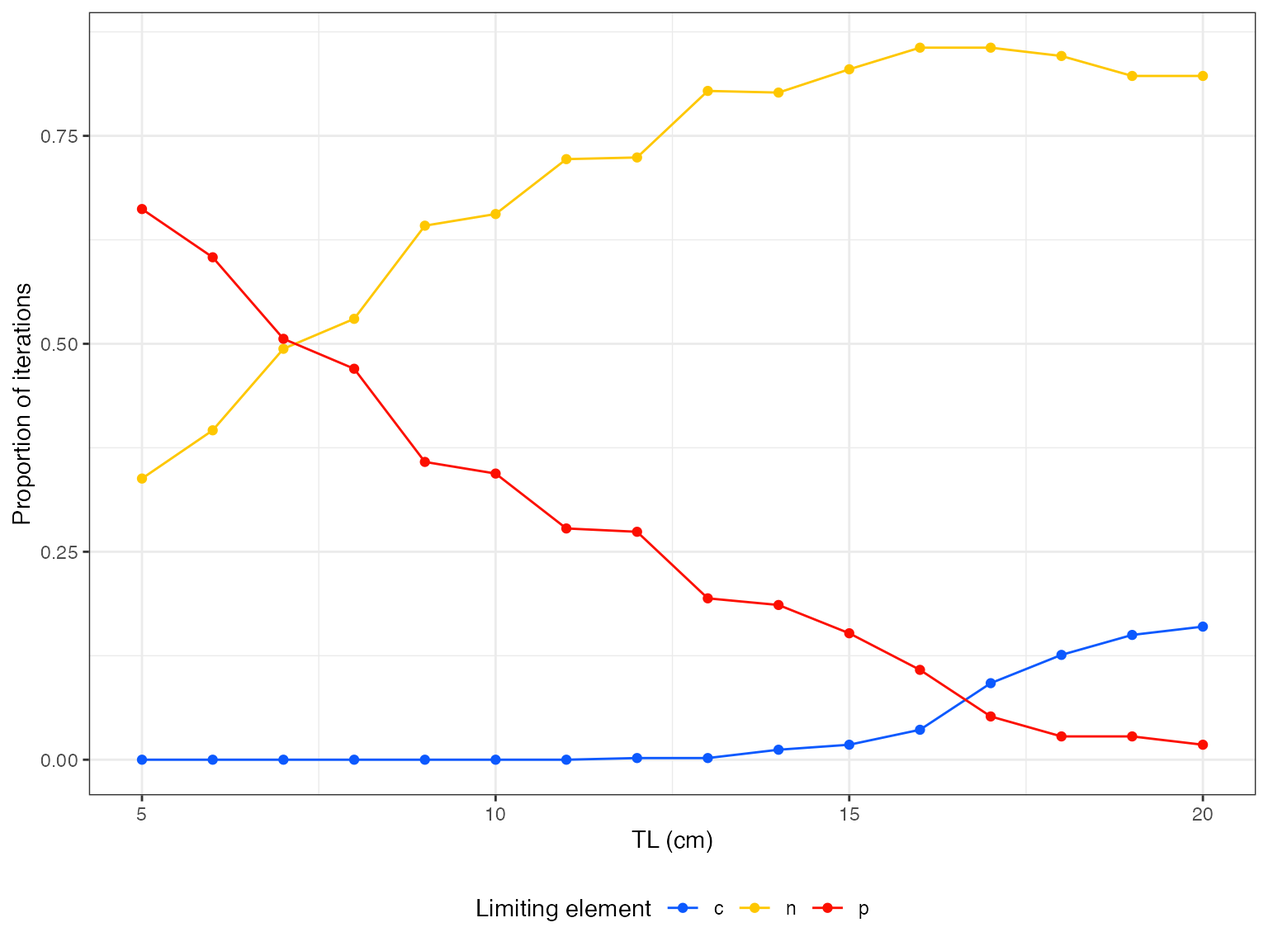
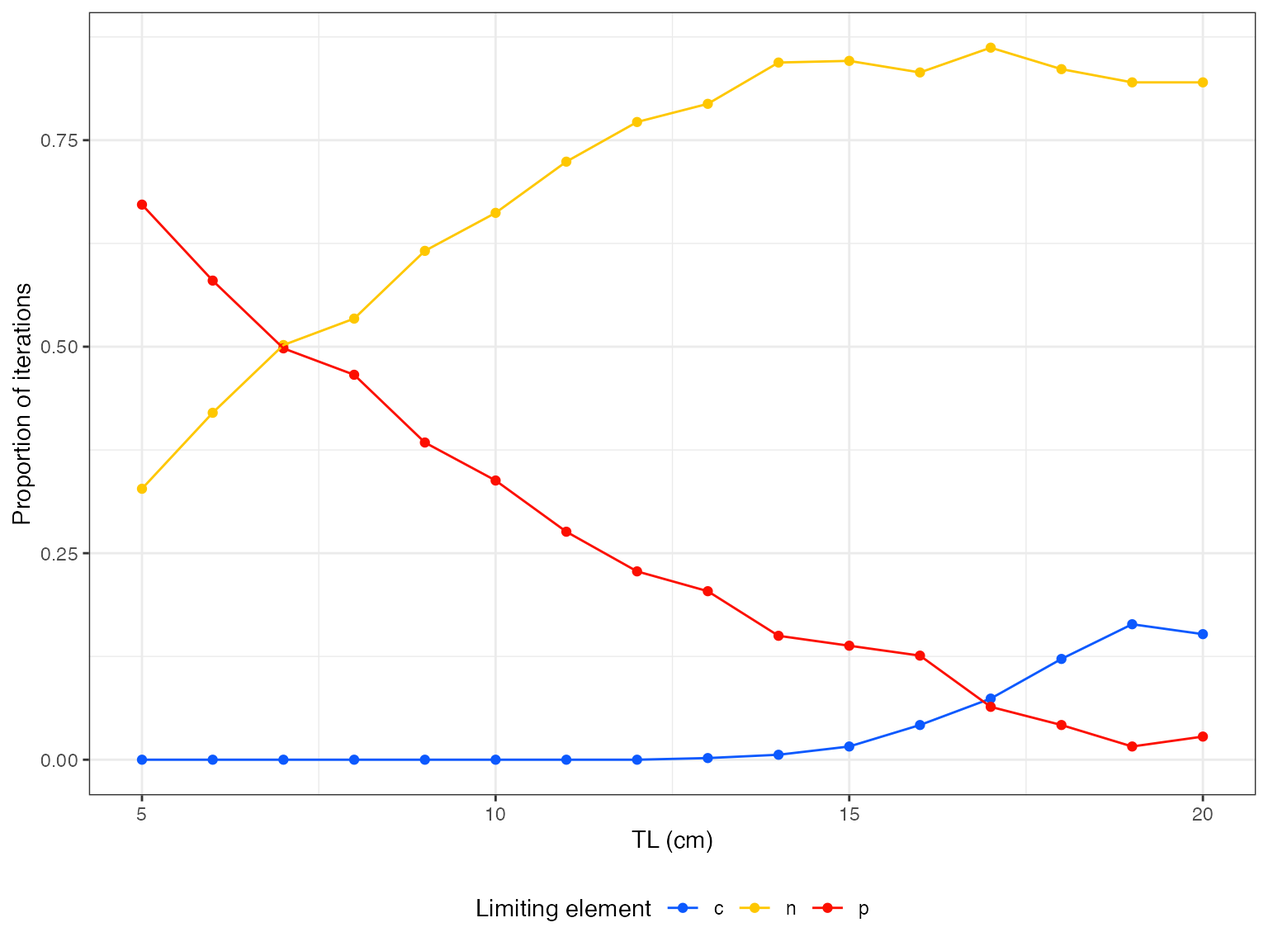
Built site for fishflux: 0.0.1.2@9f1a2a1

diff --git a/articles/intro_to_fishflux.html b/articles/intro_to_fishflux.html
@@ -79,7 +79,7 @@
       <h1 data-toc-skip>Intro to fishflux</h1>
                         <h4 class="author">Nina M. D. Schiettekatte</h4>
             
-            <h4 class="date">2020-10-12</h4>
+            <h4 class="date">2020-10-13</h4>
       
       <small class="dont-index">Source: <a href="https://github.com/nschiett/fishflux/blob/master/vignettes/intro_to_fishflux.Rmd"><code>vignettes/intro_to_fishflux.Rmd</code></a></small>
       <div class="hidden name"><code>intro_to_fishflux.Rmd</code></div>
@@ -110,7 +110,7 @@
 <p>The best way to install the latest development version of <code>fishflux</code> is to install it from GitHub.</p>
 <div class="sourceCode" id="cb1"><pre class="downlit">
 <span class="fu"><a href="https://rdrr.io/r/utils/install.packages.html">install.packages</a></span><span class="op">(</span><span class="st">"devtools"</span><span class="op">)</span>
-<span class="fu">devtools</span><span class="fu">::</span><span class="fu">install_github</span><span class="op">(</span><span class="st">"nschiett/fishflux"</span>, dependencies <span class="op">=</span> <span class="cn">TRUE</span><span class="op">)</span> <span class="co"># if errors are returned, try adding `args = "--preclean"` to `install_github`</span>
+<span class="fu">devtools</span><span class="fu">::</span><span class="fu"><a href="https://devtools.r-lib.org//reference/remote-reexports.html">install_github</a></span><span class="op">(</span><span class="st">"nschiett/fishflux"</span>, dependencies <span class="op">=</span> <span class="cn">TRUE</span><span class="op">)</span> <span class="co"># if errors are returned, try adding `args = "--preclean"` to `install_github`</span>
 <span class="kw"><a href="https://rdrr.io/r/base/library.html">library</a></span><span class="op">(</span><span class="va"><a href="https://nschiett.github.io/fishflux/">fishflux</a></span><span class="op">)</span></pre></div>
 </div>
 <div id="cran" class="section level3">
@@ -401,7 +401,7 @@ Elemental stoichiometry of diet
 <span class="co">#&gt;            species    t0 Linf     k     asp troph   lwa_m      lwa_sd lwb_m</span>
 <span class="co">#&gt; 1 Zebrasoma scopas -0.49 13.3 0.425 2.02091     2 0.02455 0.002627551  2.98</span>
 <span class="co">#&gt;      lwb_sd     mdw_m        f0_m        f0_sd alpha_m   alpha_sd</span>
-<span class="co">#&gt; 1 0.0255102 0.2504833 0.001517989 3.144375e-10    0.77 0.05286288</span></pre></div>
+<span class="co">#&gt; 1 0.0255102 0.2504833 0.001517989 3.083058e-10    0.77 0.05286288</span></pre></div>
 
 <p>All other parameters have to be provided by the user. For more information on how to acquire these parameters, take a look at (“this paper” add reference to methods paper).</p>
 </div>
@@ -420,56 +420,56 @@ Elemental stoichiometry of diet
 <div class="sourceCode" id="cb10"><pre class="downlit">
 <span class="fu">fishflux</span><span class="fu">::</span><span class="fu"><a href="../reference/extract.html">extract</a></span><span class="op">(</span><span class="va">model</span>, <span class="fu"><a href="https://rdrr.io/r/base/c.html">c</a></span><span class="op">(</span><span class="st">"Fn"</span>,<span class="st">"Fp"</span><span class="op">)</span><span class="op">)</span>
 <span class="co">#&gt;    TL      Fn_mean    Fn_median        Fn_sd      Fn_2.5%    Fn_97.5%</span>
-<span class="co">#&gt; 1   5 0.0008839412 0.0008243409 0.0004404216 0.0001953834 0.001928090</span>
-<span class="co">#&gt; 2   6 0.0013382260 0.0012383171 0.0006569160 0.0002943529 0.002898107</span>
-<span class="co">#&gt; 3   7 0.0018264333 0.0017345861 0.0008461676 0.0005097505 0.003810969</span>
-<span class="co">#&gt; 4   8 0.0025600272 0.0023606281 0.0012264121 0.0006886276 0.005404594</span>
-<span class="co">#&gt; 5   9 0.0035069660 0.0031793173 0.0017050304 0.0010856259 0.007671034</span>
-<span class="co">#&gt; 6  10 0.0043960062 0.0040128538 0.0022792375 0.0011585008 0.009353545</span>
-<span class="co">#&gt; 7  11 0.0057066555 0.0050115584 0.0031862186 0.0013790973 0.012508499</span>
-<span class="co">#&gt; 8  12 0.0070588626 0.0059482092 0.0040827421 0.0017768645 0.017168343</span>
-<span class="co">#&gt; 9  13 0.0086066323 0.0075756592 0.0052810735 0.0018382580 0.019399609</span>
-<span class="co">#&gt; 10 14 0.0113979265 0.0099571919 0.0072999063 0.0022519552 0.031062896</span>
-<span class="co">#&gt; 11 15 0.0125583519 0.0106561786 0.0083335266 0.0026053356 0.031765799</span>
-<span class="co">#&gt; 12 16 0.0169825039 0.0146058264 0.0111670750 0.0033344470 0.046223015</span>
-<span class="co">#&gt; 13 17 0.0185796627 0.0165817885 0.0114275676 0.0038572289 0.043679147</span>
-<span class="co">#&gt; 14 18 0.0235993216 0.0207347535 0.0148382247 0.0049871782 0.059729970</span>
-<span class="co">#&gt; 15 19 0.0290489404 0.0245583654 0.0192052119 0.0069144129 0.077440451</span>
-<span class="co">#&gt; 16 20 0.0319417159 0.0276730384 0.0202313209 0.0071963404 0.079227548</span>
+<span class="co">#&gt; 1   5 0.0008995975 0.0008356675 0.0004501718 0.0001991565 0.001935200</span>
+<span class="co">#&gt; 2   6 0.0012574779 0.0011826660 0.0005949077 0.0003245522 0.002594938</span>
+<span class="co">#&gt; 3   7 0.0017815642 0.0016583034 0.0008157206 0.0004321666 0.003619874</span>
+<span class="co">#&gt; 4   8 0.0025263354 0.0022954031 0.0011620143 0.0009371622 0.005506227</span>
+<span class="co">#&gt; 5   9 0.0033740745 0.0030432790 0.0017929685 0.0009063995 0.007960575</span>
+<span class="co">#&gt; 6  10 0.0044382625 0.0039223763 0.0023925573 0.0010928039 0.010100547</span>
+<span class="co">#&gt; 7  11 0.0059045515 0.0052484756 0.0034308648 0.0015062425 0.014294394</span>
+<span class="co">#&gt; 8  12 0.0074837757 0.0067492180 0.0044436802 0.0017084654 0.018495047</span>
+<span class="co">#&gt; 9  13 0.0088363746 0.0075083549 0.0054132222 0.0020402028 0.022249079</span>
+<span class="co">#&gt; 10 14 0.0115747120 0.0100693129 0.0072403744 0.0023854176 0.030304176</span>
+<span class="co">#&gt; 11 15 0.0138855402 0.0120953828 0.0092695674 0.0022621354 0.035923966</span>
+<span class="co">#&gt; 12 16 0.0157942461 0.0135706280 0.0102850666 0.0026664477 0.040423566</span>
+<span class="co">#&gt; 13 17 0.0186892061 0.0156907376 0.0125628878 0.0034492445 0.049714349</span>
+<span class="co">#&gt; 14 18 0.0234129366 0.0205061648 0.0152512045 0.0046668058 0.059482754</span>
+<span class="co">#&gt; 15 19 0.0261829676 0.0217263908 0.0173094038 0.0068285939 0.067347257</span>
+<span class="co">#&gt; 16 20 0.0327418554 0.0282508801 0.0219838847 0.0070695325 0.085882215</span>
 <span class="co">#&gt;          Fn_25%      Fn_75%      Fp_mean    Fp_median        Fp_sd      Fp_2.5%</span>
-<span class="co">#&gt; 1  0.0005623519 0.001148425 8.684075e-05 4.094570e-05 0.0001099571 1.291126e-06</span>
-<span class="co">#&gt; 2  0.0008859082 0.001683598 1.654127e-04 8.889909e-05 0.0001983011 5.791852e-06</span>
-<span class="co">#&gt; 3  0.0012182601 0.002332004 2.616520e-04 1.548684e-04 0.0003047165 1.213128e-05</span>
-<span class="co">#&gt; 4  0.0016465534 0.003311831 4.739493e-04 2.729900e-04 0.0004724972 1.316918e-05</span>
-<span class="co">#&gt; 5  0.0022210533 0.004512569 7.626694e-04 5.376809e-04 0.0007084404 4.012535e-05</span>
-<span class="co">#&gt; 6  0.0027475844 0.005718285 1.042013e-03 7.759779e-04 0.0009143972 4.668456e-05</span>
-<span class="co">#&gt; 7  0.0033380655 0.007823861 1.536259e-03 1.128391e-03 0.0013282322 9.128551e-05</span>
-<span class="co">#&gt; 8  0.0039688034 0.009171461 2.027000e-03 1.498864e-03 0.0017033325 1.085664e-04</span>
-<span class="co">#&gt; 9  0.0044667723 0.011783342 2.637328e-03 2.064432e-03 0.0021086321 1.795803e-04</span>
-<span class="co">#&gt; 10 0.0059758811 0.015262877 3.728362e-03 3.073306e-03 0.0029548037 2.654197e-04</span>
-<span class="co">#&gt; 11 0.0059185216 0.017235569 4.311889e-03 3.556830e-03 0.0033204832 3.464090e-04</span>
-<span class="co">#&gt; 12 0.0077777690 0.023279286 6.173972e-03 5.288957e-03 0.0044973756 6.654750e-04</span>
-<span class="co">#&gt; 13 0.0090641561 0.026391908 6.945099e-03 6.122603e-03 0.0045262966 1.111660e-03</span>
-<span class="co">#&gt; 14 0.0115730359 0.031506165 9.127014e-03 7.969629e-03 0.0058889020 1.773479e-03</span>
-<span class="co">#&gt; 15 0.0134219139 0.039511386 1.152131e-02 9.623056e-03 0.0075892701 2.763651e-03</span>
-<span class="co">#&gt; 16 0.0160915701 0.043899686 1.271657e-02 1.100725e-02 0.0080618471 2.943020e-03</span>
+<span class="co">#&gt; 1  0.0005848646 0.001128908 8.113832e-05 4.097058e-05 0.0001038282 2.240077e-06</span>
+<span class="co">#&gt; 2  0.0008240332 0.001566237 1.663734e-04 8.302147e-05 0.0001941108 5.512705e-06</span>
+<span class="co">#&gt; 3  0.0012340021 0.002253510 2.826207e-04 1.612433e-04 0.0002914860 1.760030e-05</span>
+<span class="co">#&gt; 4  0.0016650374 0.003137568 4.657455e-04 2.801049e-04 0.0004627298 1.207938e-05</span>
+<span class="co">#&gt; 5  0.0021317130 0.004191334 7.354955e-04 4.462109e-04 0.0007212825 2.804260e-05</span>
+<span class="co">#&gt; 6  0.0026412060 0.005768890 1.079207e-03 7.342769e-04 0.0009661083 4.141256e-05</span>
+<span class="co">#&gt; 7  0.0035348007 0.007761986 1.637747e-03 1.178602e-03 0.0014613800 6.704690e-05</span>
+<span class="co">#&gt; 8  0.0039769469 0.009896079 2.266193e-03 1.875467e-03 0.0018009384 1.814145e-04</span>
+<span class="co">#&gt; 9  0.0047182181 0.012024400 2.750213e-03 2.108595e-03 0.0021745374 2.770463e-04</span>
+<span class="co">#&gt; 10 0.0060269288 0.015893853 3.838307e-03 3.003600e-03 0.0029507092 3.540970e-04</span>
+<span class="co">#&gt; 11 0.0066433429 0.018816430 4.836250e-03 3.961685e-03 0.0037486645 4.676923e-04</span>
+<span class="co">#&gt; 12 0.0078576284 0.020705451 5.722642e-03 4.861289e-03 0.0041060613 5.984771e-04</span>
+<span class="co">#&gt; 13 0.0088930346 0.024464854 6.991514e-03 5.789069e-03 0.0050336318 9.330765e-04</span>
+<span class="co">#&gt; 14 0.0111399579 0.032779664 9.095700e-03 7.887998e-03 0.0061419999 1.560891e-03</span>
+<span class="co">#&gt; 15 0.0126971018 0.035650673 1.040710e-02 8.559846e-03 0.0068711449 2.801891e-03</span>
+<span class="co">#&gt; 16 0.0161900435 0.044132139 1.300292e-02 1.130759e-02 0.0086456139 2.846253e-03</span>
 <span class="co">#&gt;        Fp_97.5%       Fp_25%       Fp_75%</span>
-<span class="co">#&gt; 1  0.0004008963 1.909911e-05 0.0001024123</span>
-<span class="co">#&gt; 2  0.0007751376 4.218090e-05 0.0002032457</span>
-<span class="co">#&gt; 3  0.0010273002 7.085990e-05 0.0003320468</span>
-<span class="co">#&gt; 4  0.0016670513 1.299436e-04 0.0007213271</span>
-<span class="co">#&gt; 5  0.0025841013 2.281220e-04 0.0011309144</span>
-<span class="co">#&gt; 6  0.0031390229 3.261955e-04 0.0015429593</span>
-<span class="co">#&gt; 7  0.0047275989 4.470152e-04 0.0024073639</span>
-<span class="co">#&gt; 8  0.0060538738 6.579444e-04 0.0029942587</span>
-<span class="co">#&gt; 9  0.0070176946 9.210000e-04 0.0039176739</span>
-<span class="co">#&gt; 10 0.0109745684 1.460884e-03 0.0053470741</span>
-<span class="co">#&gt; 11 0.0122547864 1.725924e-03 0.0062112347</span>
-<span class="co">#&gt; 12 0.0180862417 2.479384e-03 0.0086922786</span>
-<span class="co">#&gt; 13 0.0166582241 3.221189e-03 0.0099039941</span>
-<span class="co">#&gt; 14 0.0230663279 4.455281e-03 0.0121342702</span>
-<span class="co">#&gt; 15 0.0307171311 5.364013e-03 0.0155079867</span>
-<span class="co">#&gt; 16 0.0318030927 6.322520e-03 0.0173467772</span></pre></div>
+<span class="co">#&gt; 1  0.0003844986 2.031821e-05 8.836758e-05</span>
+<span class="co">#&gt; 2  0.0007130689 4.220267e-05 2.123593e-04</span>
+<span class="co">#&gt; 3  0.0010538036 7.959827e-05 3.752558e-04</span>
+<span class="co">#&gt; 4  0.0016874451 1.308397e-04 6.916587e-04</span>
+<span class="co">#&gt; 5  0.0027256465 2.245282e-04 1.053150e-03</span>
+<span class="co">#&gt; 6  0.0036103336 3.230574e-04 1.623859e-03</span>
+<span class="co">#&gt; 7  0.0051018042 5.285212e-04 2.398718e-03</span>
+<span class="co">#&gt; 8  0.0066188297 7.289220e-04 3.335430e-03</span>
+<span class="co">#&gt; 9  0.0081327495 1.041416e-03 4.029931e-03</span>
+<span class="co">#&gt; 10 0.0115463374 1.489892e-03 5.467561e-03</span>
+<span class="co">#&gt; 11 0.0139018424 1.880325e-03 6.856950e-03</span>
+<span class="co">#&gt; 12 0.0156937442 2.275339e-03 7.922698e-03</span>
+<span class="co">#&gt; 13 0.0194944505 3.068349e-03 9.321498e-03</span>
+<span class="co">#&gt; 14 0.0231232738 4.132501e-03 1.294133e-02</span>
+<span class="co">#&gt; 15 0.0272645295 5.099123e-03 1.411327e-02</span>
+<span class="co">#&gt; 16 0.0338970630 6.403016e-03 1.730218e-02</span></pre></div>
 
 </div>
 <div id="plot-results" class="section level3">
@@ -488,47 +488,47 @@ Elemental stoichiometry of diet
 #&gt; 5   9        c    0.000
 #&gt; 6  10        c    0.000
 #&gt; 7  11        c    0.000
-#&gt; 8  12        c    0.002
+#&gt; 8  12        c    0.000
 #&gt; 9  13        c    0.002
-#&gt; 10 14        c    0.012
-#&gt; 11 15        c    0.018
-#&gt; 12 16        c    0.036
-#&gt; 13 17        c    0.092
-#&gt; 14 18        c    0.126
-#&gt; 15 19        c    0.150
-#&gt; 16 20        c    0.160
-#&gt; 17  5        n    0.338
-#&gt; 18  6        n    0.396
-#&gt; 19  7        n    0.494
-#&gt; 20  8        n    0.530
-#&gt; 21  9        n    0.642
-#&gt; 22 10        n    0.656
-#&gt; 23 11        n    0.722
-#&gt; 24 12        n    0.724
-#&gt; 25 13        n    0.804
-#&gt; 26 14        n    0.802
-#&gt; 27 15        n    0.830
-#&gt; 28 16        n    0.856
-#&gt; 29 17        n    0.856
-#&gt; 30 18        n    0.846
-#&gt; 31 19        n    0.822
-#&gt; 32 20        n    0.822
-#&gt; 33  5        p    0.662
-#&gt; 34  6        p    0.604
-#&gt; 35  7        p    0.506
-#&gt; 36  8        p    0.470
-#&gt; 37  9        p    0.358
-#&gt; 38 10        p    0.344
-#&gt; 39 11        p    0.278
-#&gt; 40 12        p    0.274
-#&gt; 41 13        p    0.194
-#&gt; 42 14        p    0.186
-#&gt; 43 15        p    0.152
-#&gt; 44 16        p    0.108
-#&gt; 45 17        p    0.052
-#&gt; 46 18        p    0.028
-#&gt; 47 19        p    0.028
-#&gt; 48 20        p    0.018
+#&gt; 10 14        c    0.006
+#&gt; 11 15        c    0.016
+#&gt; 12 16        c    0.042
+#&gt; 13 17        c    0.074
+#&gt; 14 18        c    0.122
+#&gt; 15 19        c    0.164
+#&gt; 16 20        c    0.152
+#&gt; 17  5        n    0.328
+#&gt; 18  6        n    0.420
+#&gt; 19  7        n    0.502
+#&gt; 20  8        n    0.534
+#&gt; 21  9        n    0.616
+#&gt; 22 10        n    0.662
+#&gt; 23 11        n    0.724
+#&gt; 24 12        n    0.772
+#&gt; 25 13        n    0.794
+#&gt; 26 14        n    0.844
+#&gt; 27 15        n    0.846
+#&gt; 28 16        n    0.832
+#&gt; 29 17        n    0.862
+#&gt; 30 18        n    0.836
+#&gt; 31 19        n    0.820
+#&gt; 32 20        n    0.820
+#&gt; 33  5        p    0.672
+#&gt; 34  6        p    0.580
+#&gt; 35  7        p    0.498
+#&gt; 36  8        p    0.466
+#&gt; 37  9        p    0.384
+#&gt; 38 10        p    0.338
+#&gt; 39 11        p    0.276
+#&gt; 40 12        p    0.228
+#&gt; 41 13        p    0.204
+#&gt; 42 14        p    0.150
+#&gt; 43 15        p    0.138
+#&gt; 44 16        p    0.126
+#&gt; 45 17        p    0.064
+#&gt; 46 18        p    0.042
+#&gt; 47 19        p    0.016
+#&gt; 48 20        p    0.028
 ## Plot one variable:
 fishflux::plot_cnp(model,  y = "Fp", x = "tl", probs = c(0.5, 0.8, 0.95))</a></code></pre>
 <p><img src="intro_to_fishflux_files/figure-html/unnamed-chunk-9-2.png" width="768"></p>
@@ -546,11 +546,11 @@ fishflux::plot_cnp(model,  y = "Fp", x = "tl", probs = c(0.5, 0.8, 0.95))</a></c
 <span class="fu">fishflux</span><span class="fu">::</span><span class="fu"><a href="../reference/sensitivity.html">sensitivity</a></span><span class="op">(</span>TL <span class="op">=</span> <span class="fl">10</span>, param <span class="op">=</span> <span class="va">param_zebsco</span>, par <span class="op">=</span> <span class="fu"><a href="https://rdrr.io/r/base/c.html">c</a></span><span class="op">(</span><span class="st">"Dn_sd"</span>, <span class="st">"Dp_sd"</span>, <span class="st">"Qn_sd"</span>, <span class="st">"Qp_sd"</span>, <span class="st">"k_sd"</span><span class="op">)</span>, out <span class="op">=</span> <span class="fu"><a href="https://rdrr.io/r/base/c.html">c</a></span><span class="op">(</span><span class="st">"Fn"</span>, <span class="st">"Fp"</span>, <span class="st">"Ic"</span><span class="op">)</span><span class="op">)</span></pre></div>
 <p><img src="intro_to_fishflux_files/figure-html/unnamed-chunk-10-1.png" width="768"></p>
 <pre><code>#&gt;              Fn_CI        Fp_CI        Ic_CI
-#&gt; Dn_sd 1.840421e-10 0.0002639560 9.427000e-03
-#&gt; Dp_sd 2.119908e-10 0.0008016495 2.161961e-09
-#&gt; Qn_sd 2.044140e-03 0.0007977632 2.849154e-02
-#&gt; Qp_sd 1.844385e-10 0.0007319374 1.941963e-09
-#&gt; k_sd  1.878058e-10 0.0001149229 1.105028e-02</code></pre>
+#&gt; Dn_sd 2.078582e-10 0.0002668196 9.529272e-03
+#&gt; Dp_sd 1.917325e-10 0.0008267637 1.997586e-09
+#&gt; Qn_sd 1.984451e-03 0.0007744688 2.765960e-02
+#&gt; Qp_sd 1.934787e-10 0.0006974468 2.031448e-09
+#&gt; k_sd  2.046995e-10 0.0001122325 1.079159e-02</code></pre>
 
 </div>
 </div>

diff --git a/reference/extract.html b/reference/extract.html
@@ -172,19 +172,19 @@
     <pre class="examples"><div class='input'><span class='va'>model</span> <span class='op'>&lt;-</span> <span class='fu'><a href='cnp_model_mcmc.html'>cnp_model_mcmc</a></span><span class='op'>(</span>TL <span class='op'>=</span> <span class='fl'>5</span><span class='op'>:</span><span class='fl'>10</span>, param <span class='op'>=</span> <span class='fu'><a href='https://rdrr.io/r/base/list.html'>list</a></span><span class='op'>(</span>Qc_m <span class='op'>=</span> <span class='fl'>40</span>, Qn_m <span class='op'>=</span> <span class='fl'>10</span>, Qp_m <span class='op'>=</span> <span class='fl'>4</span><span class='op'>)</span><span class='op'>)</span>
 <span class='fu'>extract</span><span class='op'>(</span><span class='va'>model</span>, <span class='fu'><a href='https://rdrr.io/r/base/c.html'>c</a></span><span class='op'>(</span><span class='st'>"Fn"</span>,<span class='st'>"Fp"</span><span class='op'>)</span><span class='op'>)</span>
 </div><div class='output co'>#&gt;   TL      Fn_mean    Fn_median        Fn_sd      Fn_2.5%     Fn_97.5%
-#&gt; 1  5 0.0006047886 0.0006047886 6.216169e-12 0.0006047886 0.0006047886
-#&gt; 2  6 0.0010610097 0.0010610097 1.022783e-11 0.0010610097 0.0010610097
-#&gt; 3  7 0.0017065393 0.0017065393 1.689223e-11 0.0017065393 0.0017065394
-#&gt; 4  8 0.0025757605 0.0025757605 2.516199e-11 0.0025757604 0.0025757605
-#&gt; 5  9 0.0037034689 0.0037034689 3.799782e-11 0.0037034688 0.0037034690
-#&gt; 6 10 0.0051248251 0.0051248251 5.325823e-11 0.0051248250 0.0051248252
+#&gt; 1  5 0.0006047886 0.0006047886 6.311954e-12 0.0006047886 0.0006047886
+#&gt; 2  6 0.0010610097 0.0010610097 1.057627e-11 0.0010610097 0.0010610097
+#&gt; 3  7 0.0017065393 0.0017065393 1.740062e-11 0.0017065393 0.0017065394
+#&gt; 4  8 0.0025757605 0.0025757605 2.643892e-11 0.0025757604 0.0025757605
+#&gt; 5  9 0.0037034689 0.0037034689 3.749319e-11 0.0037034688 0.0037034690
+#&gt; 6 10 0.0051248251 0.0051248251 5.260018e-11 0.0051248250 0.0051248252
 #&gt;         Fn_25%       Fn_75%      Fp_mean    Fp_median        Fp_sd      Fp_2.5%
-#&gt; 1 0.0006047886 0.0006047886 0.0001097965 0.0001097965 1.817826e-12 0.0001097965
-#&gt; 2 0.0010610097 0.0010610097 0.0002186548 0.0002186548 2.980249e-12 0.0002186548
-#&gt; 3 0.0017065393 0.0017065393 0.0003815567 0.0003815567 4.921940e-12 0.0003815567
-#&gt; 4 0.0025757605 0.0025757605 0.0006096826 0.0006096826 7.310672e-12 0.0006096826
-#&gt; 5 0.0037034689 0.0037034689 0.0009143614 0.0009143614 1.109991e-11 0.0009143614
-#&gt; 6 0.0051248250 0.0051248251 0.0013070515 0.0013070515 1.557869e-11 0.0013070515
+#&gt; 1 0.0006047886 0.0006047886 0.0001097965 0.0001097965 1.843743e-12 0.0001097965
+#&gt; 2 0.0010610097 0.0010610097 0.0002186548 0.0002186548 3.082655e-12 0.0002186548
+#&gt; 3 0.0017065393 0.0017065393 0.0003815567 0.0003815567 5.077088e-12 0.0003815567
+#&gt; 4 0.0025757605 0.0025757605 0.0006096826 0.0006096826 7.714360e-12 0.0006096826
+#&gt; 5 0.0037034689 0.0037034689 0.0009143614 0.0009143614 1.096932e-11 0.0009143614
+#&gt; 6 0.0051248250 0.0051248251 0.0013070515 0.0013070515 1.531111e-11 0.0013070515
 #&gt;       Fp_97.5%       Fp_25%       Fp_75%
 #&gt; 1 0.0001097965 0.0001097965 0.0001097965
 #&gt; 2 0.0002186548 0.0002186548 0.0002186548

diff --git a/reference/model_parameters.html b/reference/model_parameters.html
@@ -161,7 +161,27 @@
     <pre class="examples"><div class='input'><span class='co'># \donttest{</span>
 <span class='kw'><a href='https://rdrr.io/r/base/library.html'>library</a></span><span class='op'>(</span><span class='va'><a href='https://nschiett.github.io/fishflux/'>fishflux</a></span><span class='op'>)</span>
 <span class='fu'>model_parameters</span><span class='op'>(</span>sp <span class='op'>=</span> <span class='st'>"Scarus psittacus"</span>, family <span class='op'>=</span> <span class='st'>"Scaridae"</span>, temp <span class='op'>=</span> <span class='fl'>27</span><span class='op'>)</span><span class='co'># }</span>
-</div><div class='output co'>#&gt; <span class='warning'>Warning: cannot open URL 'https://www.fishbase.us/summary/Scarus-psittacus.html': HTTP status was '520 Unknown Error'</span></div><div class='output co'>#&gt; <span class='error'>Error in file(con, "r"): cannot open the connection to 'https://www.fishbase.us/summary/Scarus-psittacus.html'</span></div><div class='input'>
+</div><div class='output co'>#&gt; <span class='message'>average values for b0 and alpha used</span></div><div class='output co'>#&gt; 
+#&gt; SAMPLING FOR MODEL 'getB0' NOW (CHAIN 1).
+#&gt; Chain 1: Iteration:   1 / 1000 [  0%]  (Sampling)
+#&gt; Chain 1: Iteration: 100 / 1000 [ 10%]  (Sampling)
+#&gt; Chain 1: Iteration: 200 / 1000 [ 20%]  (Sampling)
+#&gt; Chain 1: Iteration: 300 / 1000 [ 30%]  (Sampling)
+#&gt; Chain 1: Iteration: 400 / 1000 [ 40%]  (Sampling)
+#&gt; Chain 1: Iteration: 500 / 1000 [ 50%]  (Sampling)
+#&gt; Chain 1: Iteration: 600 / 1000 [ 60%]  (Sampling)
+#&gt; Chain 1: Iteration: 700 / 1000 [ 70%]  (Sampling)
+#&gt; Chain 1: Iteration: 800 / 1000 [ 80%]  (Sampling)
+#&gt; Chain 1: Iteration: 900 / 1000 [ 90%]  (Sampling)
+#&gt; Chain 1: Iteration: 1000 / 1000 [100%]  (Sampling)
+#&gt; Chain 1: 
+#&gt; Chain 1:  Elapsed Time: 0 seconds (Warm-up)
+#&gt; Chain 1:                0.001017 seconds (Sampling)
+#&gt; Chain 1:                0.001017 seconds (Total)
+#&gt; Chain 1: </div><div class='output co'>#&gt;            species      t0  Linf     k     asp troph   lwa_m      lwa_sd lwb_m
+#&gt; 1 Scarus psittacus -0.6025 23.05 0.814 1.80877     2 0.01585 0.001760204  3.06
+#&gt;       lwb_sd     mdw_m        f0_m       f0_sd alpha_m   alpha_sd
+#&gt; 1 0.02040816 0.2372406 0.001517989 3.09977e-10    0.77 0.05286288</div><div class='input'>
 </div></pre>
   </div>
   <div class="col-md-3 hidden-xs hidden-sm" id="pkgdown-sidebar">

diff --git a/reference/find_lw.html b/reference/find_lw.html
@@ -153,10 +153,13 @@ The default mirror for fishbase is set to "de", please change this if needed for
 <span class='kw'><a href='https://rdrr.io/r/base/library.html'>library</a></span><span class='op'>(</span><span class='va'><a href='http://had.co.nz/plyr'>plyr</a></span><span class='op'>)</span>
 <span class='co'># find length-weight relationship parameters for one species</span>
 <span class='fu'>find_lw</span><span class='op'>(</span><span class='st'>"Lutjanus griseus"</span><span class='op'>)</span>
-</div><div class='output co'>#&gt; <span class='warning'>Warning: cannot open URL 'https://www.fishbase.us/summary/Lutjanus-griseus.html': HTTP status was '520 Unknown Error'</span></div><div class='output co'>#&gt; <span class='error'>Error in file(con, "r"): cannot open the connection to 'https://www.fishbase.us/summary/Lutjanus-griseus.html'</span></div><div class='input'>
+</div><div class='output co'>#&gt;            species   lwa_m      lwa_sd lwb_m     lwb_sd
+#&gt; 1 Lutjanus griseus 0.01514 0.001122449  2.97 0.01530612</div><div class='input'>
 <span class='co'># find length-weight relationship parameters for multiple species and return in dataframe</span>
 <span class='fu'><a href='https://rdrr.io/pkg/plyr/man/ldply.html'>ldply</a></span><span class='op'>(</span><span class='fu'><a href='https://rdrr.io/r/base/lapply.html'>lapply</a></span><span class='op'>(</span><span class='fu'><a href='https://rdrr.io/r/base/c.html'>c</a></span><span class='op'>(</span><span class='st'>"Chlorurus spilurus"</span>,<span class='st'>"Zebrasoma scopas"</span><span class='op'>)</span>, <span class='va'>find_lw</span><span class='op'>)</span><span class='op'>)</span>
-</div><div class='output co'>#&gt; <span class='warning'>Warning: cannot open URL 'https://www.fishbase.us/summary/Chlorurus-spilurus.html': HTTP status was '520 Unknown Error'</span></div><div class='output co'>#&gt; <span class='error'>Error in file(con, "r"): cannot open the connection to 'https://www.fishbase.us/summary/Chlorurus-spilurus.html'</span></div><div class='input'>
+</div><div class='output co'>#&gt;              species   lwa_m      lwa_sd lwb_m     lwb_sd
+#&gt; 1 Chlorurus spilurus 0.01413 0.008173469  3.04 0.08673469
+#&gt; 2   Zebrasoma scopas 0.02455 0.002627551  2.98 0.02551020</div><div class='input'>
 </div></pre>
   </div>
   <div class="col-md-3 hidden-xs hidden-sm" id="pkgdown-sidebar">

diff --git a/reference/sensitivity.html b/reference/sensitivity.html
@@ -174,9 +174,9 @@ Plots a heatplot with width of the 95<!-- %CI of output predictions. --></p>
 <span class='fu'>sensitivity</span><span class='op'>(</span>TL <span class='op'>=</span> <span class='fl'>10</span>, param <span class='op'>=</span> <span class='fu'><a href='https://rdrr.io/r/base/list.html'>list</a></span><span class='op'>(</span>k_sd <span class='op'>=</span> <span class='fl'>0.2</span>, Dn_sd <span class='op'>=</span> <span class='fl'>0.2</span>, Dc_sd <span class='op'>=</span> <span class='fl'>0.1</span><span class='op'>)</span>,
             par <span class='op'>=</span> <span class='fu'><a href='https://rdrr.io/r/base/c.html'>c</a></span><span class='op'>(</span><span class='st'>"k_sd"</span>,<span class='st'>"Dn_sd"</span>,<span class='st'>"Dc_sd"</span><span class='op'>)</span>, out <span class='op'>=</span> <span class='fu'><a href='https://rdrr.io/r/base/c.html'>c</a></span><span class='op'>(</span><span class='st'>"Ic"</span>, <span class='st'>"In"</span>, <span class='st'>"Ip"</span>, <span class='st'>"Gc"</span><span class='op'>)</span><span class='op'>)</span>
 </div><div class='output co'>#&gt; <span class='message'>Joining, by = "key"</span></div><div class='img'><img src='sensitivity-1.png' alt='' width='700' height='433' /></div><div class='output co'>#&gt;            Ic_CI        In_CI        Ip_CI        Gc_CI
-#&gt; k_sd  0.03466284 4.159540e-03 1.386513e-03 1.331053e-02
-#&gt; Dn_sd 0.19880071 6.270624e-03 7.952028e-03 7.335984e-11
-#&gt; Dc_sd 0.01102968 2.551815e-10 8.541392e-11 7.102021e-11</div><div class='input'>
+#&gt; k_sd  0.03101467 3.721761e-03 1.240587e-03 1.190963e-02
+#&gt; Dn_sd 0.25675483 6.725237e-03 1.027019e-02 7.108996e-11
+#&gt; Dc_sd 0.01179506 2.390145e-10 7.967897e-11 7.723893e-11</div><div class='input'>
 </div></pre>
   </div>
   <div class="col-md-3 hidden-xs hidden-sm" id="pkgdown-sidebar">

diff --git a/reference/limitation.html b/reference/limitation.html
@@ -170,8 +170,8 @@
 #&gt; Chain 1: Iteration: 1000 / 1000 [100%]  (Sampling)
 #&gt; Chain 1: 
 #&gt; Chain 1:  Elapsed Time: 0 seconds (Warm-up)
-#&gt; Chain 1:                0.011087 seconds (Sampling)
-#&gt; Chain 1:                0.011087 seconds (Total)
+#&gt; Chain 1:                0.01097 seconds (Sampling)
+#&gt; Chain 1:                0.01097 seconds (Total)
 #&gt; Chain 1: </div><div class='input'><span class='fu'>limitation</span><span class='op'>(</span><span class='va'>mod</span><span class='op'>)</span>
 </div><div class='output co'>#&gt; <span class='message'>geom_path: Each group consists of only one observation. Do you need to adjust</span>
 #&gt; <span class='message'>the group aesthetic?</span></div><div class='img'><img src='limitation-1.png' alt='' width='700' height='433' /></div><div class='output co'>#&gt;   tl nutrient prop_lim

diff --git a/reference/metabolism.html b/reference/metabolism.html
@@ -184,8 +184,8 @@ which also includes trophic level as a covariate.</p>
 #&gt; Chain 1: Iteration: 1000 / 1000 [100%]  (Sampling)
 #&gt; Chain 1: 
 #&gt; Chain 1:  Elapsed Time: 0 seconds (Warm-up)
-#&gt; Chain 1:                0.001164 seconds (Sampling)
-#&gt; Chain 1:                0.001164 seconds (Total)
+#&gt; Chain 1:                0.001047 seconds (Sampling)
+#&gt; Chain 1:                0.001047 seconds (Total)
 #&gt; Chain 1: </div><div class='output co'>#&gt;          f0_m       f0_sd   alpha_m  alpha_sd        b0_m        b0_sd
 #&gt; 1 0.004561509 0.002058095 0.4256931 0.1035894 0.001415727 0.0006612888</div><div class='input'>
 </div></pre>

diff --git a/reference/cnp_model_mcmc.html b/reference/cnp_model_mcmc.html
@@ -211,8 +211,8 @@ Qc_m <span class='op'>=</span> <span class='fl'>40</span>, Qn_m <span class='op'
 #&gt; Chain 1: Iteration: 1000 / 1000 [100%]  (Sampling)
 #&gt; Chain 1: 
 #&gt; Chain 1:  Elapsed Time: 0 seconds (Warm-up)
-#&gt; Chain 1:                0.011098 seconds (Sampling)
-#&gt; Chain 1:                0.011098 seconds (Total)
+#&gt; Chain 1:                0.011444 seconds (Sampling)
+#&gt; Chain 1:                0.011444 seconds (Total)
 #&gt; Chain 1: </div><div class='input'>
 </div></pre>
   </div>
